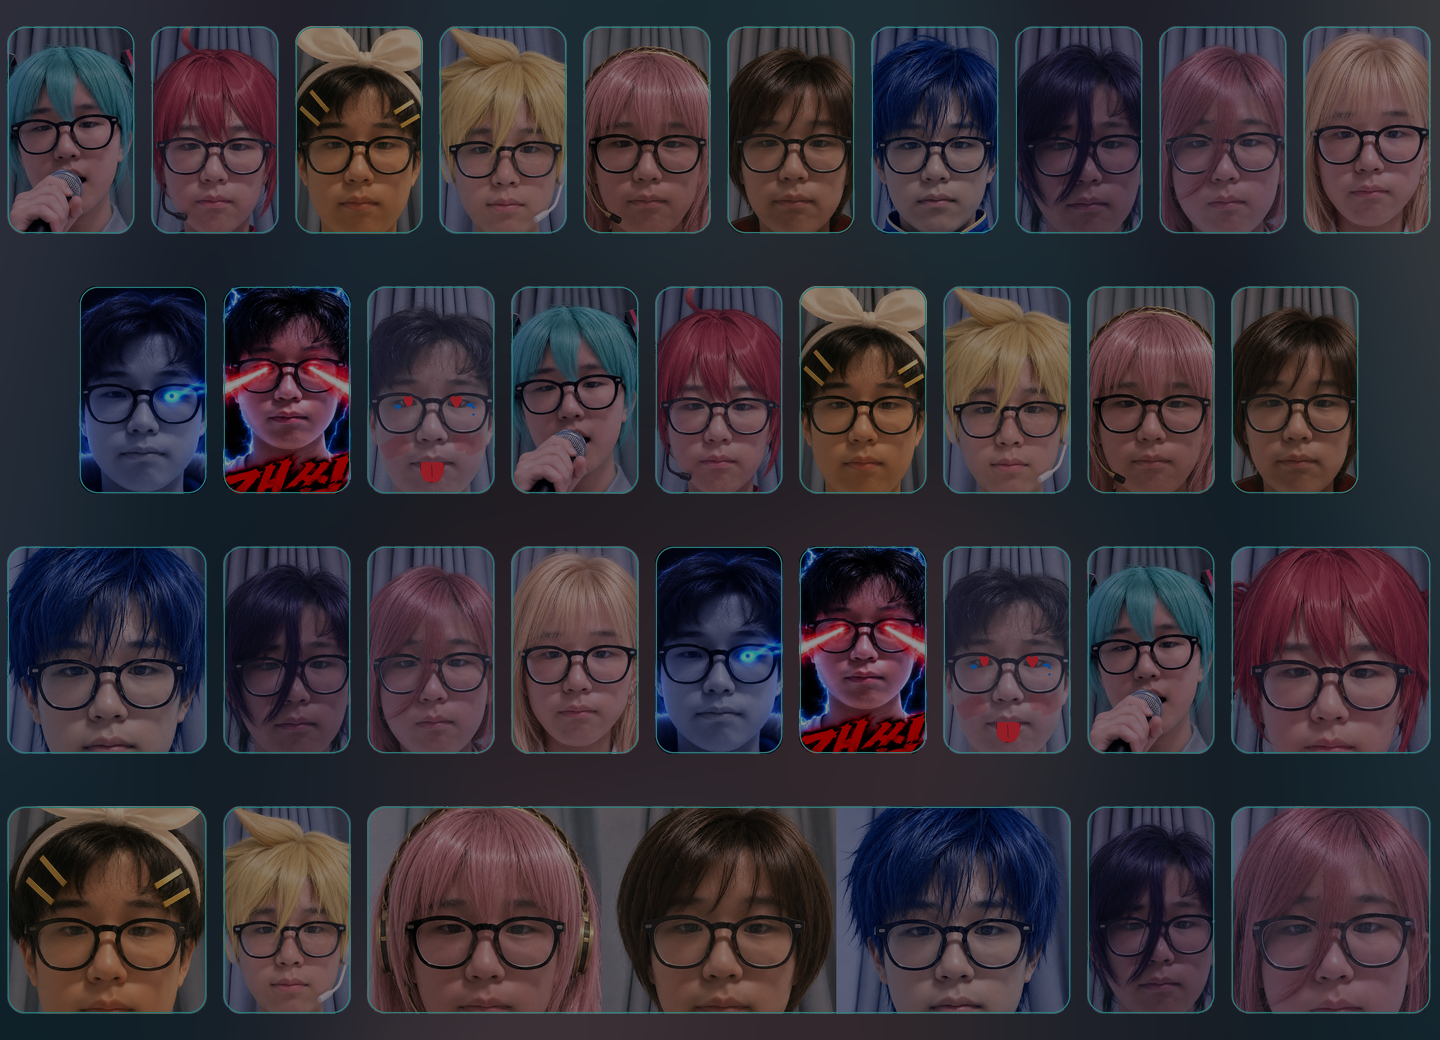
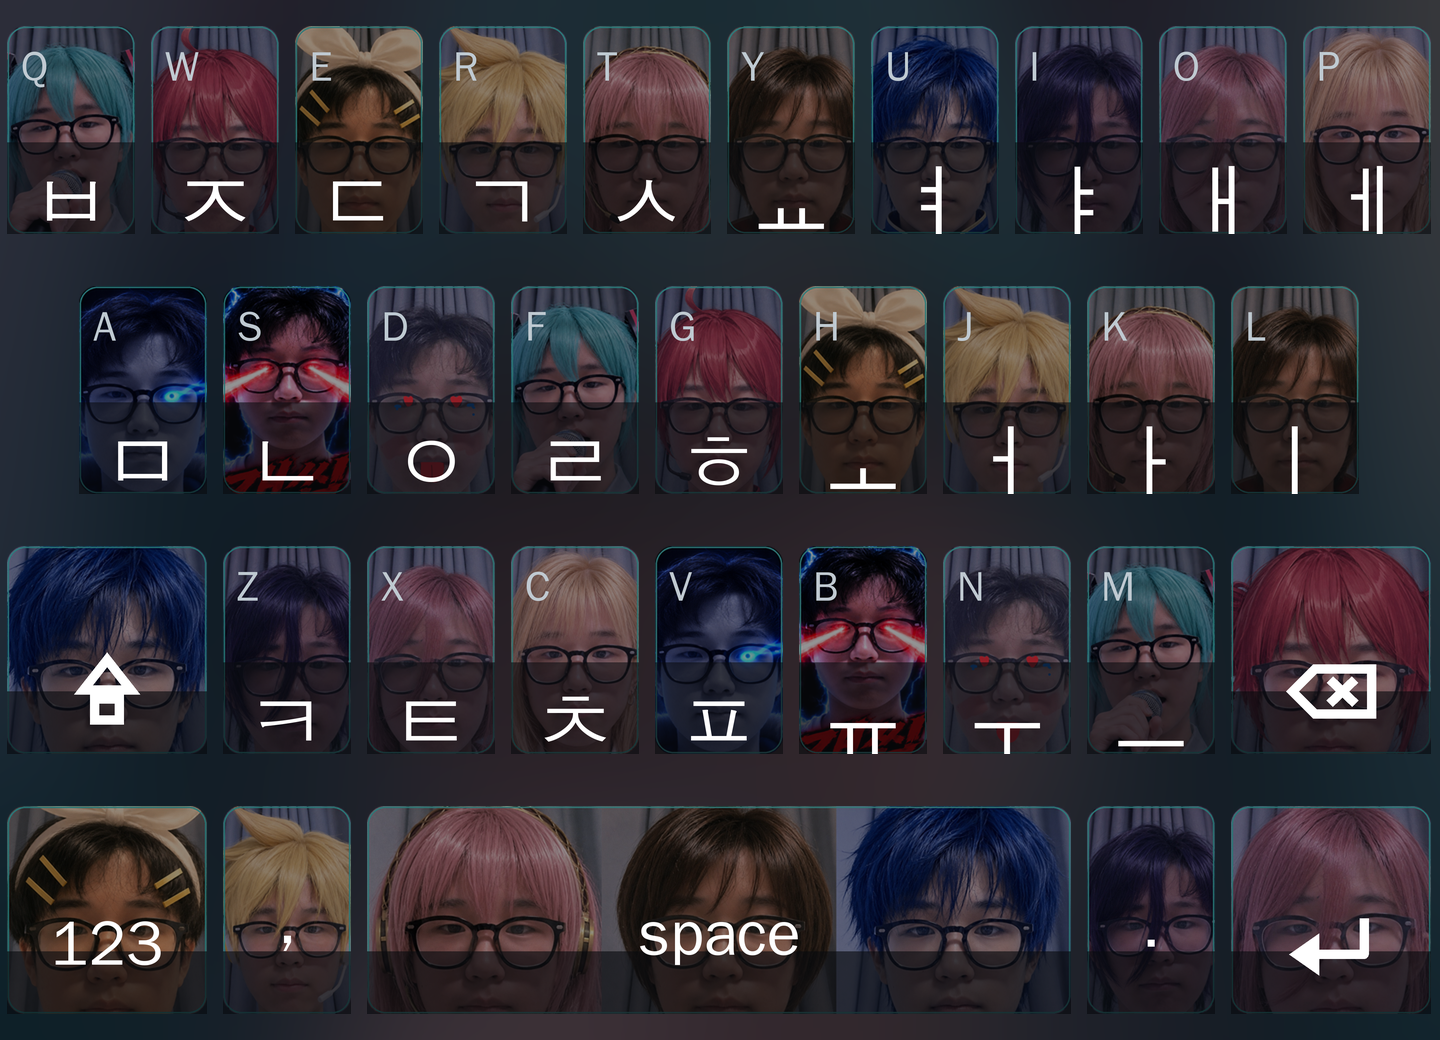
Add real key labels to the keyboard background
Each key now shows the actual QWERTY letter and 두벌식 jamo printed on
top of the dimmed face, keycap-sticker style, instead of a bare face
grid. Shift/backspace/enter use hand-drawn vector icons since those
glyphs aren't reliably present in the available font.

Claude-Session: https://claude.ai/code/session_01JhCs5kJ7ExkyyzGMTiQE9Y

diff --git a/tools/build_keyboard.py b/tools/build_keyboard.py
@@ -1,18 +1,20 @@
-"""Generate a phone-keyboard background with one face per key.
-
-The layout matches the QWERTY / 두벌식 한글 grid (10 / 9 / 7 + space row),
-so the same image works for both the English and Korean keyboards.
+"""Generate a phone-keyboard background with one face per key, labeled
+with the actual QWERTY letter and 두벌식 한글 jamo printed on each key
+(like a real keyboard skin sticker).
 """
 
 import os
-from PIL import Image, ImageDraw, ImageFilter
+from PIL import Image, ImageDraw, ImageFilter, ImageFont
 
 ROOT = os.path.dirname(os.path.dirname(os.path.abspath(__file__)))
 PHOTOS = os.path.join(ROOT, "photos")
 OUT_DIR = os.path.join(ROOT, "keyboard")
+FONT_PATH = "/usr/share/fonts/truetype/wqy/wqy-zenhei.ttc"
 
 TEAL = (57, 197, 187)
 BG = (11, 13, 17)
+WHITE = (255, 255, 255)
+MUTED = (205, 216, 224)
 
 ORDER = [
     "01_miku.png", "02_teto.png", "03_rin.png", "07_len.png", "04_luka.png",
@@ -20,13 +22,30 @@ ORDER = [
     "10_blondepink.png", "09_bluebolt.png", "08_laser.png", "11_meme.jpg",
 ]
 
+# (column start, span, korean jamo, english letter) for the two 10/9-wide
+# letter rows, then the mixed third/fourth rows below.
+ROW1 = [("ㅂ", "Q"), ("ㅈ", "W"), ("ㄷ", "E"), ("ㄱ", "R"), ("ㅅ", "T"),
+        ("ㅛ", "Y"), ("ㅕ", "U"), ("ㅑ", "I"), ("ㅐ", "O"), ("ㅔ", "P")]
+ROW2 = [("ㅁ", "A"), ("ㄴ", "S"), ("ㅇ", "D"), ("ㄹ", "F"), ("ㅎ", "G"),
+        ("ㅗ", "H"), ("ㅓ", "J"), ("ㅏ", "K"), ("ㅣ", "L")]
+ROW3_MID = [("ㅋ", "Z"), ("ㅌ", "X"), ("ㅊ", "C"), ("ㅍ", "V"), ("ㅠ", "B"),
+            ("ㅜ", "N"), ("ㅡ", "M")]
+
 _cache = {}
+_font_cache = {}
 
 
 def photo(name):
     if name not in _cache:
         _cache[name] = Image.open(os.path.join(PHOTOS, name)).convert("RGB")
     return _cache[name]
+
+
+def font(size):
+    size = max(1, int(size))
+    if size not in _font_cache:
+        _font_cache[size] = ImageFont.truetype(FONT_PATH, size)
+    return _font_cache[size]
 
 
 def face(name, w, h):
@@ -51,7 +70,7 @@ def face(name, w, h):
     return crop.resize((w, h), Image.LANCZOS)
 
 
-def key(names, w, h, radius, dim, border=True):
+def key_image(names, w, h, radius, dim, border=True):
     """One key tile: dimmed face(s), rounded corners, teal hairline.
 
     A wide key (space bar) is filled with a strip of faces instead of one
@@ -86,7 +105,85 @@ def key(names, w, h, radius, dim, border=True):
     return tile.resize((w, h), Image.LANCZOS)
 
 
-def build(width=1440, height=1040, dim=0.42, path="keyboard_vocaloid.png"):
+def label_letter_key(tile, kr, en):
+    """Stamp small English top-left + big Korean jamo bottom, keycap-sticker style."""
+    SSF = 3
+    w, h = tile.size[0] * SSF, tile.size[1] * SSF
+    big = tile.resize((w, h), Image.LANCZOS)
+    d = ImageDraw.Draw(big)
+
+    # bottom scrim so the jamo reads over any face brightness
+    scrim = Image.new("RGBA", (w, h), (0, 0, 0, 0))
+    ds = ImageDraw.Draw(scrim)
+    ds.rectangle([0, h * 0.56, w, h], fill=(8, 10, 14, 150))
+    big = Image.alpha_composite(big, scrim)
+    d = ImageDraw.Draw(big)
+
+    en_size = h * 0.20
+    d.text((w * 0.11, h * 0.07), en, font=font(en_size), fill=MUTED + (235,))
+
+    kr_size = h * 0.40
+    kf = font(kr_size)
+    bbox = d.textbbox((0, 0), kr, font=kf)
+    tw = bbox[2] - bbox[0]
+    d.text((w / 2 - tw / 2 - bbox[0], h * 0.60), kr, font=kf, fill=WHITE + (255,))
+
+    return big.resize(tile.size, Image.LANCZOS)
+
+
+def _dim_bottom(tile, ssf, frac=0.30, alpha=160):
+    w, h = tile.size[0] * ssf, tile.size[1] * ssf
+    big = tile.resize((w, h), Image.LANCZOS)
+    scrim = Image.new("RGBA", (w, h), (0, 0, 0, 0))
+    ImageDraw.Draw(scrim).rectangle([0, h * (1 - frac), w, h], fill=(8, 10, 14, alpha))
+    return Image.alpha_composite(big, scrim), w, h
+
+
+def label_special_key(tile, text, size_frac=0.30):
+    SSF = 3
+    big, w, h = _dim_bottom(tile, SSF)
+    d = ImageDraw.Draw(big)
+
+    fs = h * size_frac
+    kf = font(fs)
+    bbox = d.textbbox((0, 0), text, font=kf)
+    tw, th = bbox[2] - bbox[0], bbox[3] - bbox[1]
+    d.text((w / 2 - tw / 2 - bbox[0], h * 0.66 - th / 2 - bbox[1]), text, font=kf, fill=WHITE + (255,))
+
+    return big.resize(tile.size, Image.LANCZOS)
+
+
+def label_icon_key(tile, icon):
+    """Draw a keyboard icon (shift / backspace / enter) as vector shapes,
+    since these glyphs aren't reliably in every font."""
+    SSF = 3
+    big, w, h = _dim_bottom(tile, SSF)
+    d = ImageDraw.Draw(big)
+    cx, cy = w / 2, h * 0.70
+    s = min(w, h) * 0.30
+    lw = max(2, int(s * 0.16))
+    c = WHITE + (255,)
+
+    if icon == "shift":
+        d.polygon([(cx - s * 0.55, cy + s * 0.05), (cx, cy - s * 0.65), (cx + s * 0.55, cy + s * 0.05)],
+                  outline=c, width=lw)
+        d.rectangle([cx - s * 0.28, cy + s * 0.05, cx + s * 0.28, cy + s * 0.55], outline=c, width=lw)
+    elif icon == "backspace":
+        pts = [(cx - s * 0.75, cy), (cx - s * 0.30, cy - s * 0.45), (cx + s * 0.75, cy - s * 0.45),
+               (cx + s * 0.75, cy + s * 0.45), (cx - s * 0.30, cy + s * 0.45)]
+        d.polygon(pts, outline=c, width=lw)
+        d.line([(cx - s * 0.02, cy - s * 0.20), (cx + s * 0.40, cy + s * 0.20)], fill=c, width=lw)
+        d.line([(cx - s * 0.02, cy + s * 0.20), (cx + s * 0.40, cy - s * 0.20)], fill=c, width=lw)
+    elif icon == "enter":
+        d.line([(cx + s * 0.55, cy - s * 0.55), (cx + s * 0.55, cy + s * 0.05),
+                (cx - s * 0.55, cy + s * 0.05)], fill=c, width=lw, joint="curve")
+        d.polygon([(cx - s * 0.20, cy - s * 0.30), (cx - s * 0.20, cy + s * 0.40),
+                   (cx - s * 0.70, cy + s * 0.05)], fill=c)
+
+    return big.resize(tile.size, Image.LANCZOS)
+
+
+def build(width=1440, height=1300, dim=0.42, path="keyboard_vocaloid.png"):
     canvas = Image.new("RGBA", (width, height), BG + (255,))
 
     # subtle backdrop so gaps between keys are not flat black
@@ -103,7 +200,7 @@ def build(width=1440, height=1040, dim=0.42, path="keyboard_vocaloid.png"):
 
     idx = 0
 
-    def place(col_start, span, row):
+    def place(col_start, span, row, kr=None, en=None, label=None, icon=None):
         nonlocal idx
         x0 = col_start * unit + pad_x
         x1 = (col_start + span) * unit - pad_x
@@ -115,29 +212,35 @@ def build(width=1440, height=1040, dim=0.42, path="keyboard_vocaloid.png"):
         slots = max(1, round(w / h))
         names = [ORDER[(idx + i) % len(ORDER)] for i in range(slots)]
         idx += slots
-        tile = key(names, w, h, radius, dim)
+        tile = key_image(names, w, h, radius, dim)
+        if kr and en:
+            tile = label_letter_key(tile, kr, en)
+        elif icon:
+            tile = label_icon_key(tile, icon)
+        elif label:
+            tile = label_special_key(tile, label)
         canvas.paste(tile, (int(x0), int(y0)), tile)
 
     # row 1 : ㅂㅈㄷㄱㅅㅛㅕㅑㅐㅔ  /  Q W E R T Y U I O P
-    for c in range(10):
-        place(c, 1, 0)
+    for c, (kr, en) in enumerate(ROW1):
+        place(c, 1, 0, kr, en)
 
     # row 2 : ㅁㄴㅇㄹㅎㅗㅓㅏㅣ  /  A S D F G H J K L
-    for c in range(9):
-        place(c + 0.5, 1, 1)
+    for c, (kr, en) in enumerate(ROW2):
+        place(c + 0.5, 1, 1, kr, en)
 
     # row 3 : shift + ㅋㅌㅊㅍㅠㅜㅡ + backspace
-    place(0, 1.5, 2)
-    for c in range(7):
-        place(1.5 + c, 1, 2)
-    place(8.5, 1.5, 2)
+    place(0, 1.5, 2, icon="shift")
+    for c, (kr, en) in enumerate(ROW3_MID):
+        place(1.5 + c, 1, 2, kr, en)
+    place(8.5, 1.5, 2, icon="backspace")
 
     # row 4 : 123 / , / space / . / enter
-    place(0, 1.5, 3)
-    place(1.5, 1, 3)
-    place(2.5, 5, 3)
-    place(7.5, 1, 3)
-    place(8.5, 1.5, 3)
+    place(0, 1.5, 3, label="123")
+    place(1.5, 1, 3, label=",")
+    place(2.5, 5, 3, label="space")
+    place(7.5, 1, 3, label=".")
+    place(8.5, 1.5, 3, icon="enter")
 
     os.makedirs(OUT_DIR, exist_ok=True)
     out = os.path.join(OUT_DIR, path)
